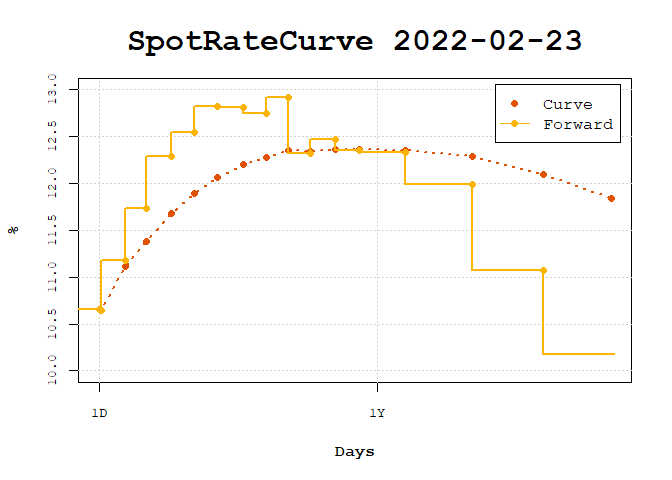
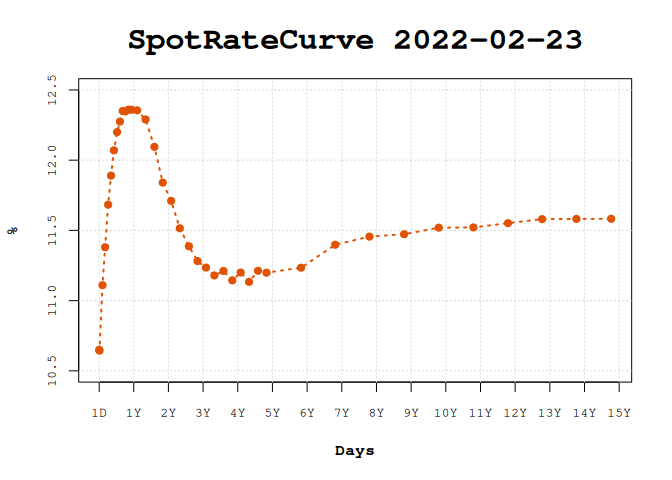
README: load saved DI1 curves instead of scraping B3
The B3 page used by examples/utils-functions.R no longer returns data,
so the README could not be rendered. The curves are now built once from
the rb3 cache (code shown with eval=FALSE) and loaded from README-curves.rds.

diff --git a/README.md b/README.md
@@ -14,9 +14,9 @@ experimental](https://img.shields.io/badge/lifecycle-experimental-orange.svg)](h
 
 Calculations involving interest rates are usually very easy and
 straightforward, but sometimes it involves specific issues that makes
-the task of writing structured and reproducible code for it chalenging
+the task of writing structured and reproducible code for it challenging
 and annoying. The `fixedincome` package brings many functions to
-strucutre and create facilities to handle with interest rates, term
+structure and create facilities to handle with interest rates, term
 structure of interest rates and specific issues regarding compounding
 rates and day count rules, for example.
 
@@ -43,16 +43,15 @@ devtools::install_github("wilsonfreitas/R-fixedincome")
 
 To create an interest rate we need to specify 4 elements:
 
--   the value of the interest rate itself, a decimal number
--   the compounding regime of interest rate, that can be `simple`,
-    `discrete` or `continuous`.
--   the day count rule which defines how interest is accrued over time,
-    we have a few options, for example, `actual/360` where the days
-    between two dates are calculated as the difference and the year is
-    assumed to be 360 days.
--   the calendar used to count the number of days between two dates, we
-    have `actual` calendar that compute the difference between two
-    dates.
+- the value of the interest rate itself, a decimal number
+- the compounding regime of interest rate, that can be `simple`,
+  `discrete` or `continuous`.
+- the day count rule which defines how interest is accrued over time, we
+  have a few options, for example, `actual/360` where the days between
+  two dates are calculated as the difference and the year is assumed to
+  be 360 days.
+- the calendar used to count the number of days between two dates, we
+  have `actual` calendar that compute the difference between two dates.
 
 There is another important topic that wasn’t declared here that is the
 *frequency* of interest. To start with the things simple `fixedincome`
@@ -111,7 +110,7 @@ df <- tibble(
 )
 
 df
-#> # A tibble: 5 x 2
+#> # A tibble: 5 × 2
 #>   rate                                       terms  
 #>   <SpotRate>                                 <Term> 
 #> 1 0.1056 discrete business/252 Brazil/ANBIMA 1 year 
@@ -126,7 +125,7 @@ classes.
 
 ``` r
 df |> mutate(fact = compound(rate, terms))
-#> # A tibble: 5 x 3
+#> # A tibble: 5 × 3
 #>   rate                                       terms    fact
 #>   <SpotRate>                                 <Term>  <dbl>
 #> 1 0.1056 discrete business/252 Brazil/ANBIMA 1 year   1.11
@@ -138,16 +137,43 @@ df |> mutate(fact = compound(rate, terms))
 
 ### Spot rate curves
 
-Let’s create a spot rate curve using web scraping (from B3 website)
+Let’s create a spot rate curve with the DI1 futures prices from B3,
+using the [rb3](https://CRAN.R-project.org/package=rb3) package. The 1
+day rate is the CDI rate.
 
 ``` r
-source("examples/utils-functions.R")
-#> 
-#> Attaching package: 'bizdays'
-#> The following object is masked from 'package:stats':
-#> 
-#>     offset
-curve <- get_curve_from_web("2022-02-23")
+library(rb3)
+library(bizdays)
+
+di1_curve <- function(date, cdi) {
+  months <- c(F = 1, G = 2, H = 3, J = 4, K = 5, M = 6, N = 7, Q = 8, U = 9, V = 10, X = 11, Z = 12)
+  di1 <- futures_get() |>
+    filter(commodity == "DI1", refdate == date) |>
+    collect() |>
+    mutate(
+      maturity = sprintf("20%s-%02d-01", substr(maturity_code, 2, 3), months[substr(maturity_code, 1, 1)]),
+      maturity = following(as.Date(maturity), "Brazil/ANBIMA"),
+      business_days = bizdays(refdate, maturity, "Brazil/ANBIMA"),
+      rate = (100000 / price)^(252 / business_days) - 1
+    ) |>
+    filter(business_days != 0) |>
+    arrange(business_days)
+  curve <- spotratecurve(
+    di1$rate, di1$business_days, "discrete", "business/252", "Brazil/ANBIMA",
+    refdate = date
+  )
+  curve[[1]] <- cdi
+  curve
+}
+
+curves <- list(
+  "2022-02-23" = di1_curve(as.Date("2022-02-23"), 0.1065),
+  "2011-02-23" = di1_curve(as.Date("2011-02-23"), 0.1116)
+)
+```
+
+``` r
+curve <- curves[["2022-02-23"]]
 curve
 #>          SpotRateCurve
 #> 1 day           0.1065
@@ -171,26 +197,26 @@ curve
 plot(curve)
 ```
 
-<img src="man/figures/README-unnamed-chunk-10-1.png" width="100%" />
+<img src="man/figures/README-unnamed-chunk-12-1.png" width="100%" />
 
 For another date.
 
 ``` r
-curve <- get_curve_from_web("2011-02-23")
+curve <- curves[["2011-02-23"]]
 plot(curve)
 ```
 
-<img src="man/figures/README-unnamed-chunk-11-1.png" width="100%" />
+<img src="man/figures/README-unnamed-chunk-13-1.png" width="100%" />
 
 It can show the forward rates for the short term by selecting the first
 two years.
 
 ``` r
-curve <- get_curve_from_web("2022-02-23")
+curve <- curves[["2022-02-23"]]
 plot(fixedincome::first(curve, "2 years"), show_forward = TRUE)
 ```
 
-<img src="man/figures/README-unnamed-chunk-12-1.png" width="100%" />
+<img src="man/figures/README-unnamed-chunk-14-1.png" width="100%" />
 
 Once interpolation is set, it can be used in the plot.
 
@@ -200,7 +226,7 @@ interpolation(curve_2y) <- interp_flatforward()
 plot(curve_2y, use_interpolation = TRUE, legend_location = "bottomright")
 ```
 
-<img src="man/figures/README-unnamed-chunk-13-1.png" width="100%" />
+<img src="man/figures/README-unnamed-chunk-15-1.png" width="100%" />
 
 Parametric models like the Nelson-Siegel-Svensson model can be fitted to
 the curve.
@@ -216,7 +242,7 @@ interpolation(curve)
 #> <Interpolation: nelsonsiegelsvensson > 
 #>  Parameters:
 #>   beta1   beta2   beta3   beta4 lambda1 lambda2 
-#>   0.119  -0.013   1.000  -0.975   1.195   1.122
+#>   0.119  -0.014   1.000  -0.975   1.202   1.129
 ```
 
 Once set to the curve it is used in the plot to show daily forward
@@ -226,7 +252,7 @@ rates.
 plot(curve, use_interpolation = TRUE, show_forward = TRUE, legend_location = "bottom")
 ```
 
-<img src="man/figures/README-unnamed-chunk-15-1.png" width="100%" />
+<img src="man/figures/README-unnamed-chunk-17-1.png" width="100%" />
 
 The interpolation can be changed in order to compare different
 interpolations and the effects in forward rates.
@@ -240,7 +266,7 @@ plot(
 )
 ```
 
-<img src="man/figures/README-unnamed-chunk-16-1.png" width="100%" />
+<img src="man/figures/README-unnamed-chunk-18-1.png" width="100%" />
 
 Interpolation enables the creation of standardized curves, commonly used
 in risk management to build risk factors.
@@ -252,4 +278,4 @@ interpolation(risk_curve) <- interp_flatforward()
 plot(risk_curve, use_interpolation = TRUE)
 ```
 
-<img src="man/figures/README-unnamed-chunk-17-1.png" width="100%" />
+<img src="man/figures/README-unnamed-chunk-19-1.png" width="100%" />

diff --git a/CLAUDE.md b/CLAUDE.md
@@ -17,7 +17,7 @@ devtools::test()                     # run all tests (testthat, edition 3)
 devtools::test(filter = "spotratecurve")   # single test file: tests/testthat/test-spotratecurve.R
 testthat::test_file("tests/testthat/test-term.R")
 devtools::check()                    # full R CMD check (what CI runs)
-rmarkdown::render("README.Rmd")      # README.md is generated — edit README.Rmd
+LANGUAGE=en Rscript -e 'rmarkdown::render("README.Rmd")'   # README.md is generated — edit README.Rmd; install the package first
 pkgdown::build_site()                # docs site (config in _pkgdown.yml)
 ```
 
@@ -45,6 +45,6 @@ Plotting: base graphics in `R/plot.R`, ggplot2 in `R/autoplot.R`.
 - `NAMESPACE` and `man/` are roxygen-generated (markdown enabled) — never edit by hand; run `devtools::document()`.
 - S4 methods that need a doc entry but would clutter the index get an alias in `R/hidden.R` (`hidden_aliases`). Add new method aliases there if `R CMD check` complains about undocumented S4 methods.
 - Dataset `ZeroCurveBRL` (`data/`) is documented in `R/fixedincome-internal.R`.
-- Vignettes don't download data: the rb3 (>= 0.1.0, not in Suggests: it pulls in arrow) code is shown with `eval=FALSE`, and a hidden chunk loads `vignettes/yc-<date>.rds` (made once from a local rb3 cache, because B3 no longer serves those 2022 files).
+- Vignettes don't download data: the rb3 (>= 0.1.0, not in Suggests: it pulls in arrow) code is shown with `eval=FALSE`, and a hidden chunk loads `vignettes/yc-<date>.rds` (made once from a local rb3 cache, because B3 no longer serves those 2022 files). The README does the same with `README-curves.rds`.
 - Only annual rates are supported (no frequency concept).
 - `examples/`, `resources/`, `images/` are scratch/legacy material excluded from the build (`.Rbuildignore`); they are not tests and may not run against the current API.
